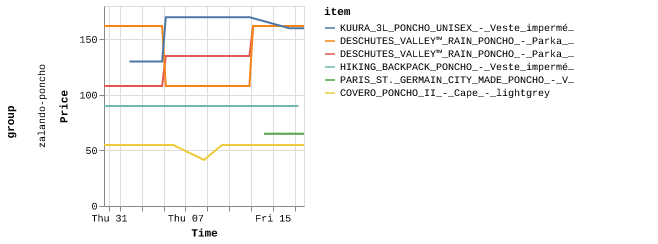
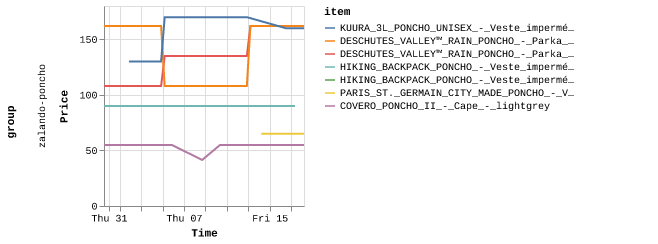
Latest scraping prices: Mon Sep 18 04:50:37 UTC 2023

diff --git a/scrapes/prices/zalando-poncho-HIKING_BACKPACK_PONCHO_-_Veste_imperméable_-_indian_red.md b/scrapes/prices/zalando-poncho-HIKING_BACKPACK_PONCHO_-_Veste_imperméable_-_indian_red.md
@@ -1,0 +1,3 @@
+à partir de € 89,95
+
+[Source](https://fr.zalando.be/homme/?q=poncho+imperm%C3%A9able&sold_by_zalando=true)
